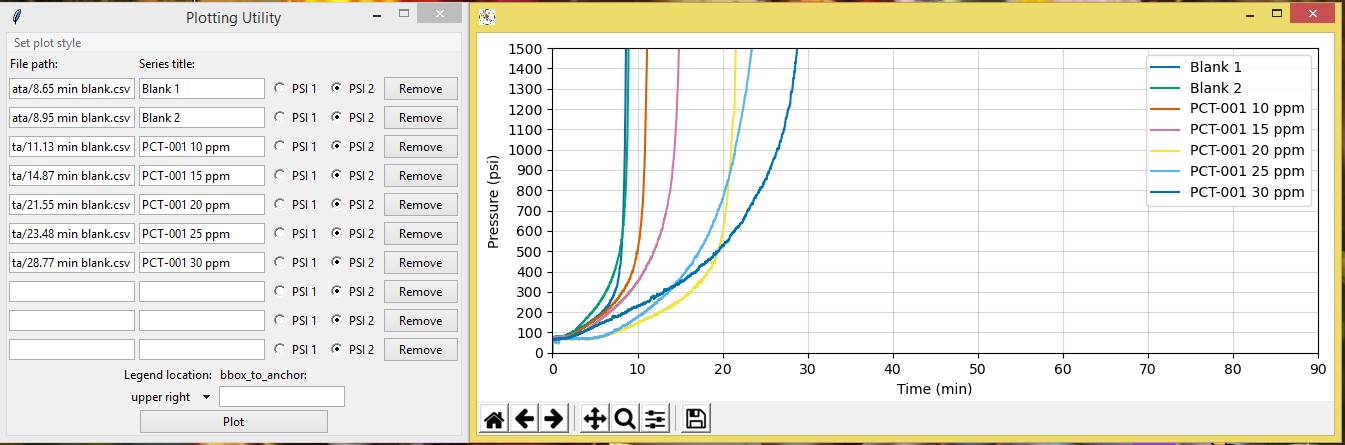
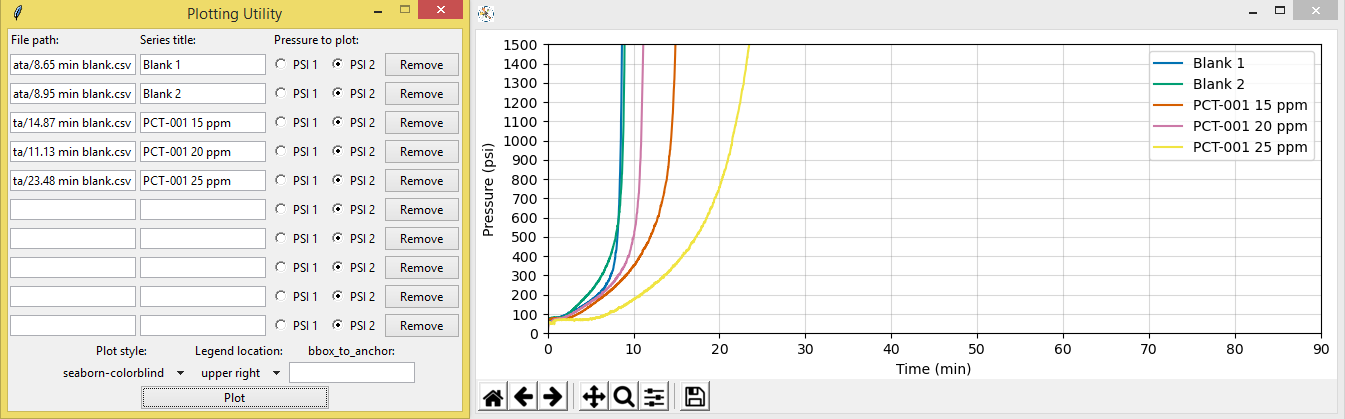
update plotter GUI and screenshot

diff --git a/plotter.py b/plotter.py
@@ -49,20 +49,6 @@ class Plotter(tk.Toplevel):
         self.build()
 
     def build(self):
-        self.plotstyle.set('seaborn-colorblind')
-        self.pmenu = tk.Menu(self)
-        self.pltmenu = tk.Menu(master=self, tearoff=1)
-
-        for style in Plotter.styles:
-            self.pltmenu.add_command(
-                label=style,
-                command=lambda style=style: self.plotstyle.set(style)
-                )
-
-        self.pmenu.add_cascade(label="Set plot style", menu=self.pltmenu)
-        # self.pmenu.add_command(label="Set figure dimensions", command=None)
-
-        self.winfo_toplevel().config(menu=self.pmenu)
         self.winfo_toplevel().title("Plotting Utility")
 
         # NOTE: this is a dirty way of doing it... but it works
@@ -88,17 +74,29 @@ class Plotter(tk.Toplevel):
             self.loc,
             Plotter.locslst[1],
             *Plotter.locslst)
+
+        self.styles = ttk.OptionMenu(
+            self.setfrm,
+            self.plotstyle,
+            Plotter.styles[3],
+            *Plotter.styles)
+
+        tk.Label(
+            master=self.setfrm,
+            text="Plot style:"
+            ).grid(row=0, column=0, sticky=None)
         tk.Label(
             master=self.setfrm,
             text="Legend location:"
-            ).grid(row=0, column=0, sticky=tk.W)
+            ).grid(row=0, column=1, sticky=None)
         tk.Label(
             master=self.setfrm,
             text="bbox_to_anchor:"
-            ).grid(row=0, column=1, sticky=tk.W)
+            ).grid(row=0, column=2, sticky=None)
 
-        self.locs.grid(row=1, column=0, sticky=tk.W, padx=2)
-        self.anchorent.grid(row=1, column=1, sticky=tk.E, padx=2)
+        self.styles.grid(row=1, column=0, sticky=tk.W, padx=2)
+        self.locs.grid(row=1, column=1, sticky=tk.W, padx=2)
+        self.anchorent.grid(row=1, column=2, sticky=tk.E, padx=2)
         # self.anchorent.insert(0, "1.13,0.525")
 
         self.pltbtn = ttk.Button(
@@ -107,18 +105,18 @@ class Plotter(tk.Toplevel):
             width=30,
             command=self.make_plot
             )
-        self.pltbtn.grid(row=2, columnspan=2, pady=1)
+        self.pltbtn.grid(row=2, columnspan=3, pady=1)
         self.setfrm.pack(side=tk.BOTTOM)
 
     def make_plot(self):
         to_plot = []
         for child in self.entfrm.winfo_children():
             if not child.path.get() == "":
-                to_plot.append(
+                to_plot.append((
                     child.path.get(),
                     child.title.get(),
                     child.plotpump.get()
-                    )
+                    ))
 
         self.fig, self.ax = plt.subplots(figsize=(12.5, 5), dpi=100)
         self.ax.set_xlabel("Time (min)")
